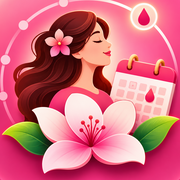
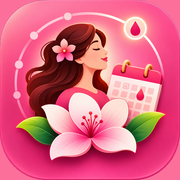
Add files via upload

diff --git a/index.html b/index.html
@@ -1,89 +1,91 @@
-<!doctype html><html lang="en"><head><meta charset="utf-8"><meta name="viewport" content="width=device-width,initial-scale=1,viewport-fit=cover"><meta name="theme-color" content="#FBF6F8"><meta name="color-scheme" content="light dark"><meta name="mobile-web-app-capable" content="yes"><meta name="apple-mobile-web-app-capable" content="yes"><meta name="apple-mobile-web-app-title" content="Cycle Bloom"><meta name="description" content="Cycle Bloom: a private period tracker. No account, no tracking."><link rel="manifest" href="manifest.webmanifest"><link rel="icon" href="favicon-48.png" type="image/png" sizes="48x48"><link rel="apple-touch-icon" href="apple-touch-icon.png"><title>Cycle Bloom</title>
-<link rel="preconnect" href="https://fonts.googleapis.com"><link rel="preconnect" href="https://fonts.gstatic.com" crossorigin><link href="https://fonts.googleapis.com/css2?family=Plus+Jakarta+Sans:wght@400;500;600;700;800&family=Noto+Nastaliq+Urdu:wght@400;500&display=swap" rel="stylesheet">
+<!doctype html><html lang="en"><head><meta charset="utf-8"><meta name="viewport" content="width=device-width,initial-scale=1,viewport-fit=cover"><meta name="theme-color" content="#fff9f7"><meta name="color-scheme" content="light dark"><meta name="mobile-web-app-capable" content="yes"><meta name="apple-mobile-web-app-capable" content="yes"><meta name="apple-mobile-web-app-title" content="Cycle Bloom"><meta name="description" content="Cycle Bloom: a private period tracker. No account, no tracking."><link rel="manifest" href="manifest.webmanifest"><link rel="icon" href="favicon-48.png" type="image/png" sizes="48x48"><link rel="apple-touch-icon" href="apple-touch-icon.png"><title>Cycle Bloom</title>
+<link rel="preconnect" href="https://fonts.googleapis.com"><link rel="preconnect" href="https://fonts.gstatic.com" crossorigin><link href="https://fonts.googleapis.com/css2?family=DM+Sans:wght@400;500;600;700&family=Fraunces:opsz,wght@9..144,500;9..144,600;9..144,700&family=Noto+Nastaliq+Urdu:wght@400;500&display=swap" rel="stylesheet">
 <style>
-:root{--bg:#FBF6F8;--card:#fff;--ink:#2A1621;--mut:#74606B;--line:#EEDFE6;--b:#C0287A;--b-d:#7E2350;--b-m:#D9608F;--b-t:#EDA9C4;--b-s:#FDEEF4;--on-b:#fff;--red:#DC2626;--ph1:var(--b);--ph2:var(--b-m);--ph3:var(--b-t);--ph4:var(--b-d);--sh:0 1px 2px rgba(80,25,55,.05),0 10px 24px -12px rgba(80,25,55,.16);--nav:rgba(255,255,255,.9)}
-body[data-t=dark]{color-scheme:dark;--bg:#160E13;--card:#221820;--ink:#F7EDF1;--mut:#B9A5AF;--line:#35252E;--b:#EE6AA7;--b-d:#C0508A;--b-m:#F28DB5;--b-t:#F8CFE0;--b-s:#3A2030;--on-b:#2A0A1A;--red:#FF5A52;--sh:0 1px 2px rgba(0,0,0,.3),0 12px 28px -14px rgba(0,0,0,.6);--nav:rgba(34,24,32,.9)}
+:root{--bg:#fff9f7;--card:#fff;--ink:#412a37;--mut:#8d7782;--line:#f0dfe3;--b:#e95f94;--b-d:#b93870;--b-m:#f6a2b6;--b-t:#e9b4c8;--b-s:#fff0f1;--peach:#ffe1d2;--on-b:#fff;--red:#dc2626;--ph1:#e95f94;--ph3:#f6a2b6;--ph2:#e9b4c8;--ph4:#c6a9cb;--sh:0 12px 35px rgba(117,55,76,.08);--nav:#fff}
+body[data-t=dark]{color-scheme:dark;--bg:#1d1720;--card:#2a202b;--ink:#fff2f5;--mut:#c3aeba;--line:#493644;--b:#f176a4;--b-d:#ffbad3;--b-m:#f6a2b6;--b-t:#e9b4c8;--b-s:#392735;--peach:#47313b;--on-b:#2a0a1a;--red:#ff5a52;--sh:0 12px 35px rgba(0,0,0,.16);--nav:#2a202b}
 *{box-sizing:border-box;-webkit-tap-highlight-color:transparent}
-html{-webkit-text-size-adjust:100%}
-body{margin:0;font:14px/1.45 "Plus Jakarta Sans",system-ui,-apple-system,"Segoe UI",sans-serif;color:var(--ink);background:var(--bg);min-height:100vh;min-height:100dvh;padding-bottom:calc(64px + env(safe-area-inset-bottom));font-variant-numeric:lining-nums}
-body.ur{direction:rtl;font-family:"Noto Nastaliq Urdu","Plus Jakarta Sans",system-ui,sans-serif;line-height:1.8}
-body.ur button,body.ur .chip,body.ur label,body.ur nav button{line-height:1.55}
-.hidden{display:none!important}.wrap{max-width:480px;margin:0 auto;padding:4px 16px}
-h1,h2{margin:0;line-height:1.2;letter-spacing:-.02em}h1{font-size:22px;font-weight:800}h2{font-size:16px;font-weight:700}
-body.ur h1,body.ur h2{line-height:1.7;letter-spacing:0}body.ur h1{font-size:20px}body.ur h2{font-size:15px}
-small,.eb{color:var(--b);font-size:12px;font-weight:600;display:block}
-.mut{color:var(--mut);font-size:12.5px;line-height:1.45;margin:0}
-.hd{padding:0 2px 6px}
-.card{background:var(--card);border:1px solid var(--line);border-radius:20px;padding:12px 14px;margin:8px 0;box-shadow:var(--sh)}
+html{-webkit-text-size-adjust:100%;scroll-behavior:smooth}
+body{margin:0;font:14px/1.5 "DM Sans",system-ui,-apple-system,"Segoe UI",sans-serif;color:var(--ink);background:var(--bg);min-height:100vh;min-height:100dvh;padding-bottom:calc(100px + env(safe-area-inset-bottom));font-variant-numeric:lining-nums}
+body.ur{direction:rtl;font-family:"Noto Nastaliq Urdu","DM Sans",system-ui,sans-serif;line-height:1.9}
+body.ur button,body.ur .chip,body.ur label,body.ur nav button{line-height:1.6}
+.hidden{display:none!important}.wrap{max-width:680px;margin:0 auto;padding:0 20px}
+h1,h2,h3{font-family:"Fraunces",Georgia,serif;margin:0;line-height:1.1}
+h1{font-size:clamp(31px,7vw,43px);letter-spacing:-1.5px;font-weight:600;margin:0 0 20px}
+h2{font-size:21px;letter-spacing:-.5px;font-weight:600}h3{font-size:17px;margin:0 0 7px;font-weight:600}
+body.ur h1,body.ur h2,body.ur h3{font-family:"Noto Nastaliq Urdu","Fraunces",serif;line-height:1.7;letter-spacing:0}body.ur h1{font-size:clamp(24px,6vw,34px)}body.ur h2{font-size:18px}
+small,.eb{display:block}
+.hd{padding:0}.hd small{font-size:11px;font-weight:700;letter-spacing:1.6px;text-transform:uppercase;color:var(--b-d);margin:0 0 7px}body.ur .hd small{letter-spacing:0;text-transform:none;font-size:12px}
+.mut{color:var(--mut);font-size:13px;line-height:1.5;margin:0}
+.card{background:var(--card);border:1px solid var(--line);border-radius:26px;padding:21px;margin:0 0 14px;box-shadow:var(--sh)}
 button,input,select,textarea{font:inherit;color:inherit}
-button{border:1px solid var(--line);border-radius:14px;padding:0 14px;min-height:44px;background:var(--card);cursor:pointer;width:100%;margin-top:8px;font-weight:600;font-size:13.5px;display:inline-flex;align-items:center;justify-content:center;gap:7px;transition:transform .15s,background .15s,box-shadow .2s}
-button:active{transform:scale(.97)}button:disabled{opacity:.45;cursor:not-allowed;transform:none}
-button.p,button.d{background:var(--b);color:var(--on-b);border-color:transparent;box-shadow:0 8px 16px -8px color-mix(in srgb,var(--b) 80%,transparent)}
+button{border:1px solid var(--line);border-radius:15px;padding:11px 16px;min-height:46px;background:var(--card);cursor:pointer;width:100%;margin-top:10px;font-weight:700;font-size:14px;display:inline-flex;align-items:center;justify-content:center;gap:8px;transition:transform .15s,background .15s}
+button:active{transform:scale(.97)}button:disabled{opacity:.5;cursor:not-allowed;transform:none}
+button.p,button.d{background:var(--b);color:var(--on-b);border-color:transparent;box-shadow:0 7px 16px rgba(233,95,148,.2)}
 button.q{background:transparent;color:var(--mut);border-color:transparent}
-button.dl{background:transparent;color:var(--b);border-color:transparent;min-height:34px;font-size:12.5px;margin-top:2px}
-:focus-visible{outline:2px solid var(--b);outline-offset:2px}
-.round{width:36px;height:36px;min-height:0;padding:0;margin:0;margin-inline-start:8px;flex:none;border-radius:12px}
-input,select,textarea{width:100%;padding:8px 10px;min-height:38px;border-radius:12px;border:1px solid var(--line);background:var(--card);margin:3px 0 8px;font-size:14px;transition:border-color .15s}
+button.dl{background:transparent;color:var(--b-d);border-color:transparent;min-height:36px;font-size:13px}
+:focus-visible{outline:3px solid var(--b);outline-offset:3px}
+.round{width:40px;height:40px;min-height:0;padding:0;margin:0;margin-inline-start:8px;flex:none;border-radius:14px}
+input,select,textarea{width:100%;padding:13px 14px;min-height:45px;border-radius:14px;border:1px solid var(--line);background:var(--card);margin:6px 0 14px;font-size:14px}
 input:focus,select:focus,textarea:focus{border-color:var(--b);outline:0}
-textarea{resize:none;min-height:0}
-label{font-size:12px;font-weight:600;color:var(--mut)}
-.row{display:flex;gap:8px}.row>*{flex:1;min-width:0}.row>button{margin-top:8px}
-.top{display:flex;justify-content:space-between;align-items:center;height:42px}.top>div:last-child{display:flex}
-.brand{font-size:16px;font-weight:800;letter-spacing:-.01em;display:flex;align-items:center}
-.bm{width:26px;height:26px;border-radius:9px;background:var(--b);color:var(--on-b);display:grid;place-items:center;margin-inline-end:8px;font-style:normal}.bm svg{width:15px;height:15px}
-svg.ic{width:20px;height:20px;fill:none;stroke:currentColor;stroke-width:1.75;stroke-linecap:round;stroke-linejoin:round;flex:none}
+textarea{resize:vertical;min-height:100px}
+label{font-size:12px;font-weight:700;color:var(--mut)}
+.row{display:flex;gap:10px}.row>*{flex:1;min-width:0}.row>button{margin-top:10px}
+.top{display:flex;justify-content:space-between;align-items:center;height:82px}.top>div:last-child{display:flex}
+.brand{font-size:19px;font-weight:700;letter-spacing:-.7px;display:flex;align-items:center;gap:10px}
+.bm{width:34px;height:34px;flex:none;display:block;font-style:normal;margin-inline-end:0}.bm img{width:100%;height:100%;display:block;border-radius:11px;box-shadow:0 5px 15px rgba(233,95,148,.31)}
+svg.ic{width:18px;height:18px;fill:none;stroke:currentColor;stroke-width:1.75;stroke-linecap:round;stroke-linejoin:round;flex:none}
 [dir=rtl] .flip svg{transform:scaleX(-1)}
-/* hero ring */
-.hero{display:flex;gap:16px;align-items:center;padding:14px 16px}
-.ring{position:relative;width:108px;height:108px;flex:none}.ring>svg{width:108px;height:108px;transform:rotate(-90deg);overflow:visible}
-.ring .tr{fill:none;stroke:var(--b-s);stroke-width:9}.ring .pg{fill:none;stroke:var(--b);stroke-width:9;stroke-linecap:round;transition:stroke-dashoffset 1.1s cubic-bezier(.2,.8,.2,1)}
+.hero{position:relative;overflow:hidden;display:flex;gap:20px;align-items:center;padding:26px;background:linear-gradient(135deg,var(--b-s),var(--card) 70%)}
+.hero:after{content:"✿";position:absolute;font-size:178px;line-height:1;right:-25px;top:-62px;color:var(--b);opacity:.08;pointer-events:none}
+.hero>*{position:relative;z-index:1}
+.ring{position:relative;width:112px;height:112px;flex:none}.ring>svg{width:112px;height:112px;transform:rotate(-90deg);overflow:visible}
+.ring .tr{fill:none;stroke:var(--b-s);stroke-width:9}body[data-t=dark] .ring .tr{stroke:var(--line)}.ring .pg{fill:none;stroke:var(--b);stroke-width:9;stroke-linecap:round;transition:stroke-dashoffset 1.1s cubic-bezier(.2,.8,.2,1)}
 .rc{position:absolute;inset:0;display:flex;flex-direction:column;align-items:center;justify-content:center;text-align:center;line-height:1}
-.rc strong{direction:ltr;unicode-bidi:isolate;font-size:40px;font-weight:800;letter-spacing:-.03em;font-variant-numeric:tabular-nums}.rc i{font-style:normal;font-size:10.5px;color:var(--mut);margin-top:4px;line-height:1.3}
+.rc strong{direction:ltr;unicode-bidi:isolate;font-family:"Fraunces",serif;font-size:42px;font-weight:600;font-variant-numeric:tabular-nums}.rc i{font-style:normal;font-size:10px;color:var(--mut);margin-top:4px;line-height:1.3;font-weight:700;text-transform:uppercase}
 .ring.red .tr,.ring.red .pg{stroke:var(--red)}.ring.red .rc strong{color:var(--red)}
 .ring.red{animation:glow 2.8s ease-in-out infinite}
 @keyframes glow{0%,100%{filter:drop-shadow(0 0 3px color-mix(in srgb,var(--red) 30%,transparent))}50%{filter:drop-shadow(0 0 10px color-mix(in srgb,var(--red) 55%,transparent))}}
-.hm{min-width:0}.hm h2{font-size:20px;font-weight:800;margin:0 0 2px}body.ur .hm h2{font-size:17px}.hm .mut{margin-bottom:8px}
-.pc{display:inline-flex;align-items:center;gap:6px;padding:3px 10px;border-radius:99px;background:var(--b-s);font-size:12px;font-weight:600}.pc i,.lgd i{width:8px;height:8px;border-radius:50%;background:var(--c);flex:none;box-shadow:inset 0 0 0 1px color-mix(in srgb,var(--ink) 14%,transparent)}
-.hero .cdl{display:block;font-size:11.5px;color:var(--mut);margin-top:6px}
+.hm{min-width:0}.hm h2{font-size:25px;margin:0 0 5px}body.ur .hm h2{font-size:19px}.hm .mut{margin-bottom:6px}
+.pc{display:inline-flex;align-items:center;gap:6px;padding:6px 10px;border-radius:99px;background:var(--b-s);color:var(--b-d);font-size:11px;font-weight:700;margin-top:6px}.pc i,.lgd i{width:8px;height:8px;border-radius:50%;background:var(--c);flex:none}
+.hero .cdl{display:block;font-size:11.5px;color:var(--mut);margin-top:8px}
 .ph1{--c:var(--ph1)}.ph2{--c:var(--ph2)}.ph3{--c:var(--ph3)}.ph4{--c:var(--ph4)}
-.nudge{display:flex;gap:8px;align-items:center;padding:8px 12px;border-radius:14px;margin:0 0 8px;font-size:12.5px;font-weight:600;line-height:1.4;background:color-mix(in srgb,var(--red) 9%,var(--card));border:1px solid color-mix(in srgb,var(--red) 35%,transparent)}.nudge svg{color:var(--red);width:18px;height:18px}
-.tl{padding:12px 14px}.bar{display:flex;gap:3px;height:8px;position:relative;margin:4px 0 12px}.bar span{background:var(--c);border-radius:6px;min-width:4px}
+.nudge{display:flex;gap:10px;align-items:center;padding:12px 16px;border-radius:18px;margin:0 0 14px;font-size:13px;font-weight:600;line-height:1.5;background:color-mix(in srgb,var(--red) 9%,var(--card));border:1px solid color-mix(in srgb,var(--red) 35%,transparent)}.nudge svg{color:var(--red);width:18px;height:18px}
+.tl h3{margin-bottom:14px}.bar{display:flex;gap:4px;height:7px;position:relative;margin:4px 0 16px}.bar span{background:var(--c);border-radius:8px;min-width:4px}
 .bar em{position:absolute;top:50%;width:14px;height:14px;margin-top:-7px;margin-inline-start:-7px;border-radius:50%;background:var(--card);border:3px solid var(--ink);box-shadow:0 2px 6px rgba(0,0,0,.2)}
-.lgd{display:flex;justify-content:space-between;gap:6px;font-size:11px;color:var(--mut)}.lgd span{display:inline-flex;align-items:center;gap:5px}
-.tip{margin:8px 0 0;font-size:12.5px;line-height:1.45}
-.sg{display:grid;grid-template-columns:repeat(3,1fr);text-align:center;padding:10px 6px}.sg>div+div{border-inline-start:1px solid var(--line)}.sg strong{display:block;font-size:20px;font-weight:800;line-height:1.2;letter-spacing:-.02em}.sg span{font-size:11px;color:var(--mut)}
-.fine{font-size:11px;color:var(--mut);line-height:1.4;margin:6px 2px 0}
-/* chips + switch */
-.chips{display:flex;flex-wrap:wrap;gap:6px;margin:4px 0 8px}
-.chip{display:inline-flex;align-items:center;gap:5px;padding:5px 11px;border-radius:999px;background:var(--card);border:1px solid var(--line);font-size:12.5px;cursor:pointer;font-weight:500;color:var(--ink);transition:background .15s,color .15s,border-color .15s}.chip svg{width:15px;height:15px}.chip input{display:none}
-.chip:has(input:checked){background:var(--b);color:var(--on-b);border-color:var(--b)}.chip.sm{padding:3px 10px;font-size:12px;cursor:default;background:var(--b-s);border-color:transparent}
-fieldset{border:0;padding:0;margin:0}legend{font-weight:600;font-size:12px;color:var(--mut);padding:0}
-.sw{display:flex;align-items:center;justify-content:space-between;gap:10px;font-weight:600;font-size:13.5px;color:var(--ink);margin:4px 0 8px}
-.sw.box{border:1px solid var(--line);border-radius:12px;padding:0 10px;min-height:38px;background:var(--card);font-size:11.5px;line-height:1.25;margin:0 0 8px}
-.sw input{appearance:none;-webkit-appearance:none;width:40px;height:24px;min-height:0;border-radius:99px;background:var(--line);position:relative;margin:0;padding:0;border:0;flex:none;transition:background .2s;cursor:pointer}
-.sw input::after{content:"";position:absolute;top:3px;inset-inline-start:3px;width:18px;height:18px;border-radius:50%;background:#fff;transition:inset-inline-start .2s;box-shadow:0 1px 3px rgba(0,0,0,.3)}.sw input:checked{background:var(--b)}.sw input:checked::after{inset-inline-start:19px}
-/* calendar */
-.cm{display:flex;align-items:center;justify-content:space-between;margin-bottom:4px}.cm h2{flex:1;text-align:center}.cm .round{margin:0}
-.g{display:grid;grid-template-columns:repeat(7,1fr);gap:2px;text-align:center}.g span{font-size:11px;color:var(--mut);padding:2px 0;font-weight:600}
-.g button{position:relative;padding:0;margin:0;height:34px;min-height:0;border:0;border-radius:10px;background:transparent;color:var(--ink);font-weight:500;font-size:13px;width:auto;gap:0}
-.g .o{opacity:.35}.g .ov{background:color-mix(in srgb,var(--b-m) 30%,transparent)}.g .pr{background:var(--b-s);box-shadow:inset 0 0 0 1.5px var(--b-m)}.g .l{background:var(--b);color:var(--on-b);font-weight:700;box-shadow:none}
-.g .t{box-shadow:inset 0 0 0 2px var(--ink)}.g .s{outline:2px solid var(--b-d);outline-offset:1px}
-.g u{position:absolute;bottom:3px;width:4px;height:4px;border-radius:50%;background:currentColor;opacity:.8}
-.lg{display:flex;flex-wrap:wrap;gap:4px 12px;font-size:11px;color:var(--mut);margin-top:8px}.lg span{display:inline-flex;align-items:center;gap:5px}.lg i{width:12px;height:12px;border-radius:4px;display:inline-block}
-.k-p{background:var(--b)}.k-r{background:var(--b-s);box-shadow:inset 0 0 0 1.5px var(--b-m)}.k-f{background:color-mix(in srgb,var(--b-m) 30%,transparent);box-shadow:inset 0 0 0 1px color-mix(in srgb,var(--b-m) 55%,transparent)}.k-t{box-shadow:inset 0 0 0 2px var(--ink)}
-.sel h2{font-size:16px}.sel .mut{margin:3px 0 4px}
-/* insights */
+.lgd{display:flex;flex-wrap:wrap;gap:10px;font-size:11px;color:var(--mut)}.lgd span{display:inline-flex;align-items:center;gap:4px}
+.tip{margin:14px 0 0;font-size:13px;line-height:1.5;color:var(--mut)}
+.tipc{display:flex;gap:13px;align-items:flex-start;background:var(--peach);box-shadow:none}.tipc .ti{font-size:21px;line-height:1.2}.tipc p{margin:0;color:var(--mut);line-height:1.5;font-size:13px}
+.sg{display:grid;grid-template-columns:repeat(3,1fr);text-align:center;padding:20px 8px}.sg>div+div{border-inline-start:1px solid var(--line)}.sg strong{display:block;font-family:"Fraunces",serif;font-size:24px;font-weight:600;line-height:1.3}.sg span{font-size:10.5px;color:var(--mut)}
+.row+.card,.row+.sg{margin-top:14px}.fine{font-size:11.5px;color:var(--mut);line-height:1.5;margin:12px 0}
+.chips{display:flex;flex-wrap:wrap;gap:8px;margin:6px 0 16px}
+.chip{display:inline-flex;align-items:center;gap:6px;padding:10px 13px;border-radius:12px;background:var(--card);border:1px solid var(--line);font-size:12px;cursor:pointer;font-weight:600;color:var(--ink)}.chip svg{width:15px;height:15px}.chip input{display:none}
+.chip:has(input:checked){background:var(--b-s);color:var(--b-d);border-color:var(--b)}.chip.sm{padding:5px 11px;font-size:12px;cursor:default;background:var(--b-s);border-color:transparent;color:var(--b-d)}
+fieldset{border:0;padding:0;margin:0}legend{font-weight:700;font-size:12px;color:var(--mut);padding:0;margin-bottom:6px}
+.sw{display:flex;align-items:center;justify-content:space-between;gap:12px;font-weight:600;font-size:14px;color:var(--ink);margin:6px 0 14px}
+.sw.box{border:1px solid var(--line);border-radius:14px;padding:0 12px;min-height:45px;background:var(--card);font-size:12px;line-height:1.3;margin:6px 0 14px}
+.sw input{appearance:none;-webkit-appearance:none;width:45px;height:26px;min-height:0;border-radius:30px;background:var(--line);position:relative;margin:0;padding:0;border:0;flex:none;transition:background .2s;cursor:pointer}
+.sw input::after{content:"";position:absolute;top:3px;inset-inline-start:3px;width:20px;height:20px;border-radius:50%;background:#fff;transition:inset-inline-start .2s;box-shadow:0 1px 4px rgba(0,0,0,.2)}.sw input:checked{background:var(--b)}.sw input:checked::after{inset-inline-start:22px}
+.cm{display:flex;align-items:center;justify-content:space-between;margin-bottom:20px}.cm h2{flex:1;text-align:center}.cm .round{margin:0}
+.g{display:grid;grid-template-columns:repeat(7,1fr);gap:5px;text-align:center}.g span{font-size:11px;color:var(--mut);padding:0 0 4px;font-weight:600}
+.g button{position:relative;padding:0;margin:0;aspect-ratio:1;height:auto;min-height:0;min-width:0;border:0;border-radius:13px;background:transparent;color:var(--ink);font-weight:600;font-size:14px;width:auto;gap:0}
+.g .o{opacity:.35}.g .ov{background:color-mix(in srgb,var(--b-m) 30%,transparent)}.g .pr{background:var(--b-s);color:var(--b-d);box-shadow:inset 0 0 0 1px var(--b-m)}.g .l{background:var(--b);color:var(--on-b);box-shadow:none}
+.g .t{box-shadow:inset 0 0 0 2px var(--b)}.g .l.t{box-shadow:inset 0 0 0 2px var(--card)}.g .s{outline:2px solid var(--ink);outline-offset:2px}
+.g u{position:absolute;bottom:4px;left:calc(50% - 2px);width:4px;height:4px;border-radius:50%;background:currentColor}
+.lg{display:flex;flex-wrap:wrap;gap:12px;font-size:11px;color:var(--mut);margin-top:19px}.lg span{display:inline-flex;align-items:center;gap:5px}.lg i{width:10px;height:10px;border-radius:4px;display:inline-block}
+.k-p{background:var(--b)}.k-r{background:var(--b-s);box-shadow:inset 0 0 0 1px var(--b)}.k-f{background:color-mix(in srgb,var(--b-m) 30%,transparent)}.k-t{box-shadow:inset 0 0 0 2px var(--b)}
+.sel h2{font-size:19px}.sel .mut{margin:6px 0 10px}
 .sb{height:8px;border-radius:6px;background:var(--b-s);overflow:hidden}.sb i{display:block;height:100%;background:var(--b);border-radius:6px}
-.sy{display:grid;grid-template-columns:96px 1fr 22px;gap:8px;align-items:center;font-size:13px;margin:7px 0}.sy b{font-weight:600;text-align:end;color:var(--mut);font-size:12px}
-nav{position:fixed;bottom:0;left:0;right:0;display:flex;gap:2px;background:var(--nav);-webkit-backdrop-filter:blur(14px);backdrop-filter:blur(14px);border-top:1px solid var(--line);padding:6px 8px calc(6px + env(safe-area-inset-bottom));z-index:20}
-nav button{border:0;background:transparent;width:auto;flex:1;margin:0;padding:6px 2px 5px;min-height:0;border-radius:14px;font-size:10.5px;font-weight:600;color:var(--mut);flex-direction:column;gap:3px}nav button.a{color:var(--b);background:var(--b-s)}
-.pan{position:fixed;inset:0;z-index:50;display:flex;align-items:center;justify-content:center;padding:20px;background:var(--bg);overflow:auto}.pan .card{width:100%;max-width:380px}
-.mod{background:rgba(22,14,19,.5);backdrop-filter:blur(4px);z-index:60}
-#toast{position:fixed;bottom:calc(78px + env(safe-area-inset-bottom));left:50%;transform:translateX(-50%) translateY(8px);background:var(--ink);color:var(--bg);padding:10px 16px;border-radius:14px;opacity:0;transition:.3s;pointer-events:none;z-index:99;max-width:90%;font-size:13px;text-align:center}#toast.on{opacity:1;transform:translateX(-50%)}
-.err{color:var(--b);min-height:1.3em;font-size:13px;margin:0}.dots{display:flex;gap:6px;margin:4px 0 12px}.dots i{height:4px;flex:1;border-radius:9px;background:var(--line)}.dots i.on{background:var(--b)}
-#v.in{animation:in .28s cubic-bezier(.2,.7,.2,1)}@keyframes in{from{opacity:0;transform:translateY(6px)}to{opacity:1;transform:none}}
-.st input,.st select{min-height:34px;padding:6px 10px;margin:2px 0 6px}.st label{font-size:11.5px}.st button{min-height:40px;font-size:12.5px;padding:0 8px;gap:5px;white-space:nowrap;margin-top:6px}.st .card{padding:10px 12px;margin:6px 0}.st .hd{padding-bottom:2px;display:flex;align-items:baseline;gap:8px}.st .hd small{order:2;color:var(--mut);font-weight:500}.st .hd h1{order:1}.st label{margin:0}.st .sw.box{min-height:34px;margin-bottom:6px}.st .fine{font-size:10.5px}.st .sw input{min-height:0;margin:0}.st .row>button{margin-top:6px}
-@media (max-height:700px){.ring,.ring>svg{width:94px;height:94px}.rc strong{font-size:34px}.card{margin:6px 0;padding:10px 12px}.g button{height:30px}.hero{padding:10px 14px}}
+.sy{display:grid;grid-template-columns:96px 1fr 22px;gap:8px;align-items:center;font-size:13px;margin:10px 0}.sy b{font-weight:700;text-align:end;color:var(--mut);font-size:12px}
+nav{position:fixed;bottom:0;left:0;right:0;display:flex;gap:3px;background:var(--nav);border-top:1px solid var(--line);padding:9px 12px calc(10px + env(safe-area-inset-bottom));z-index:20;box-shadow:0 -8px 30px rgba(77,36,64,.05)}
+nav button{border:0;background:transparent;width:auto;flex:1;margin:0;padding:6px 2px;min-height:52px;border-radius:14px;font-size:10px;font-weight:700;color:var(--mut);flex-direction:column;gap:4px}nav button.a{color:var(--b-d);background:var(--b-s)}
+.pan{position:fixed;inset:0;z-index:50;display:flex;align-items:center;justify-content:center;padding:24px;background:var(--bg);overflow:auto}.pan .card{width:100%;max-width:380px}
+.mod{background:rgba(29,23,32,.5);backdrop-filter:blur(4px);z-index:60}
+#toast{position:fixed;bottom:calc(92px + env(safe-area-inset-bottom));left:50%;transform:translateX(-50%) translateY(8px);background:var(--ink);color:var(--bg);padding:11px 18px;border-radius:15px;opacity:0;transition:.3s;pointer-events:none;z-index:99;max-width:90%;font-size:13px;text-align:center}#toast.on{opacity:1;transform:translateX(-50%)}
+.err{color:var(--b-d);min-height:1.3em;font-size:12px;font-weight:700;margin:0}.dots{display:flex;gap:6px;margin:4px 0 14px}.dots i{height:5px;flex:1;border-radius:9px;background:var(--line)}.dots i.on{background:var(--b)}
+#v.in{animation:in .25s ease}@keyframes in{from{opacity:.5;transform:translateY(5px)}to{opacity:1;transform:none}}
+@media(min-width:600px){.wrap{padding:0 28px}.card{padding:25px}.hero{gap:32px}.ring,.ring>svg{width:135px;height:135px}.rc strong{font-size:48px}
+nav{bottom:18px;left:50%;right:auto;transform:translateX(-50%);width:min(580px,calc(100% - 30px));border:1px solid var(--line);border-radius:22px;padding:7px}}
+@media(max-width:380px){.hero{padding:20px;gap:14px}.ring,.ring>svg{width:96px;height:96px}.rc strong{font-size:36px}}
 @media (prefers-reduced-motion:reduce){*{transition:none!important;animation:none!important}}
 </style></head><body>
 <div id="lock" class="pan hidden"><div class="card"><div class="brand"><i class="bm"></i>Cycle Bloom</div><h2 id="lh" style="margin-top:12px"></h2><label id="lt" for="upin"></label><input id="upin" type="password" inputmode="numeric" autocomplete="off" maxlength="4" onkeydown="if(event.key==='Enter')unlock()"><p class="err" id="uerr"></p><button class="p" id="ub" onclick="unlock()"></button><button class="q" id="fb" onclick="forgot()"></button></div></div>
@@ -94,7 +96,7 @@ nav button{border:0;background:transparent;width:auto;flex:1;margin:0;padding:6p
 <script>
 const $=s=>document.querySelector(s);
 const esc=s=>String(s).replace(/[&<>"']/g,c=>({"&":"&amp;","<":"&lt;",">":"&gt;",'"':"&quot;","'":"&#39;"}[c]));
-const EN={home:"Home",cal:"Calendar",log:"Log",ins:"Insights",set:"Settings",hello:"Hello",today:"Your cycle today",
+const EN={gr:"A gentle reminder",jt:"Your cycle journey",home:"Home",cal:"Calendar",log:"Log",ins:"Insights",set:"Settings",hello:"Your space to bloom",today:"Your cycle, at a glance.",
 dleft:"DAYS LEFT",dleft1:"DAY LEFT",due:"DUE TODAY",pday:"PERIOD DAY",dlate:"DAYS LATE",dlate1:"DAY LATE",of:"of {n} days",
 tom:"Tomorrow",td:"Today",in:"In {n} days",late1:"Late by 1 day",late:"Late by {n} days",pred:"Expected {d}",wasexp:"Was expected {d}",cd:"Cycle day {d} of {n}",cd2:"Cycle day {d}",pdayh:"Period day {d}",endexp:"Ends around {d}",
 nudge:"Keep pads and essentials handy.",nl:"Cycles vary, so it may start any day now.",nl7:"More than a week late? A check-up can help.",
@@ -117,7 +119,7 @@ saved:"Saved",wrong:"Wrong PIN",unl:"Unlock",wb:"Welcome back",ent4:"Enter your 
 o1t:"Your cycle, understood gently.",o1p:"A private journal to notice patterns and prepare with confidence.",o2t:"Let's begin with the basics.",o2d:"First day of your last period",o3t:"A little notice, when you need it.",onf:"No account. No tracking. Your story stays yours.",back:"Back",cont:"Continue",begin:"Begin",
 cal2:"Calendar file ready. Open it to add reminders.",ps:"Mark period start today?",pe:"Mark period as ended today?",ps2:"Period start saved.",pe2:"Period end saved.",nops:"No current period start found.",already:"You're already on day {d} of your period.",endbad:"Your last period started {d} days ago. Fix its date in Log.",
 imp2:"Import will replace current data. Continue?",bad:"Not a valid backup file.",pin2:"PIN must be 4 digits.",nres:"Notifications are blocked in browser settings.",nsup:"Notifications aren't supported on this browser.",cant:"Could not save"},
-UR={home:"ہوم",cal:"کیلنڈر",log:"اندراج",ins:"اعداد",set:"سیٹنگز",hello:"السلام علیکم",today:"آج آپ کا سائیکل",
+UR={gr:"ایک نرم یاد دہانی",jt:"آپ کے سائیکل کا سفر",home:"ہوم",cal:"کیلنڈر",log:"اندراج",ins:"اعداد",set:"سیٹنگز",hello:"السلام علیکم",today:"آج آپ کا سائیکل",
 dleft:"دن باقی",dleft1:"دن باقی",due:"آج متوقع",pday:"ماہواری کا دن",dlate:"دن دیر",dlate1:"دن دیر",of:"{n} دن میں سے",
 tom:"کل",td:"آج",in:"{n} دن میں",late1:"1 دن دیر سے",late:"{n} دن دیر سے",pred:"متوقع: {d}",wasexp:"متوقع تاریخ: {d}",cd:"سائیکل کا دن {d} / {n}",cd2:"سائیکل کا دن {d}",pdayh:"ماہواری کا دن {d}",endexp:"تقریباً {d} تک",
 nudge:"ضروری چیزیں تیار رکھیں۔",nl:"سائیکل بدلتا رہتا ہے، کسی بھی دن شروع ہو سکتی ہے۔",nl7:"ایک ہفتے سے زیادہ دیر ہو تو ڈاکٹر سے چیک اپ کروائیں۔",
@@ -178,13 +180,13 @@ moon:'<path d="M20 14.5A8 8 0 1 1 9.5 4a6.5 6.5 0 0 0 10.5 10.5z"/>',sun:'<circl
 plus:'<path d="M12 5v14M5 12h14"/>',check:'<path d="M5 12.5l4.5 4.5L19 7.5"/>',bell:'<path d="M6 16v-5a6 6 0 0 1 12 0v5l1.5 2h-15zM10 20a2 2 0 0 0 4 0"/>',chL:'<path d="M15 5l-7 7 7 7"/>',chR:'<path d="M9 5l7 7-7 7"/>',send:'<path d="M4 12l16-8-6 16-3-7z"/>',down:'<path d="M12 4v11M7 11l5 5 5-5M5 20h14"/>',up:'<path d="M12 16V5M7 9l5-5 5 5M5 20h14"/>',drop:'<path d="M12 3c3.6 4.3 6 7.3 6 10.5a6 6 0 0 1-12 0C6 10.3 8.4 7.3 12 3z"/>',
 calm:'<circle cx="12" cy="12" r="9"/><path d="M9 10h.01M15 10h.01M9.5 14.5c1.4 1 3.6 1 5 0"/>',good:'<circle cx="12" cy="12" r="9"/><path d="M9 10h.01M15 10h.01M8.5 14c1.9 2.6 5.1 2.6 7 0"/>',low:'<circle cx="12" cy="12" r="9"/><path d="M9 10h.01M15 10h.01M9 16c1.7-1.4 4.3-1.4 6 0"/>',anxious:'<circle cx="12" cy="12" r="9"/><path d="M9 10h.01M15 10h.01M8.5 15.5c1-1 2.2-1 3.5 0s2.5 1 3.5 0"/>'};
 const ico=k=>`<svg class="ic" viewBox="0 0 24 24" aria-hidden="true">${IC[k]}</svg>`;
-function theme(){const x=S.theme==="auto"?(matchMedia("(prefers-color-scheme: dark)").matches?"dark":"light"):S.theme;document.body.dataset.t=x;const m=document.querySelector('meta[name=theme-color]');if(m)m.content=x==="dark"?"#160E13":"#FBF6F8"}
+function theme(){const x=S.theme==="auto"?(matchMedia("(prefers-color-scheme: dark)").matches?"dark":"light"):S.theme;document.body.dataset.t=x;const m=document.querySelector('meta[name=theme-color]');if(m)m.content=x==="dark"?"#1d1720":"#fff9f7"}
 try{matchMedia("(prefers-color-scheme: dark)").addEventListener("change",()=>{if(S.theme==="auto"){theme();ui()}})}catch(e){}
 function toggleTheme(){S.theme=document.body.dataset.t==="dark"?"light":"dark";save();theme();ui()}
 function ui(){document.body.classList.toggle("ur",S.lang==="ur");document.documentElement.dir=S.lang==="ur"?"rtl":"ltr";document.documentElement.lang=S.lang;theme();
 $("#lh").textContent=t("wb");$("#lt").textContent=t("ent4");$("#ub").textContent=t("unl");$("#fb").textContent=t("fg");$("#onf").textContent=t("onf");
 $("#tb").innerHTML=`<div class="brand"><i class="bm"></i>Cycle Bloom</div><div><button class="round" onclick="toggleTheme()" aria-label="${t("app")}">${ico(document.body.dataset.t==="dark"?"sun":"moon")}</button><button class="round" onclick="lockNow()" aria-label="${t("lock")}">${ico("lock")}</button></div>`;
-$("#nav").innerHTML=["home","cal","log","ins","set"].map(k=>`<button class="${tab===k?"a":""}" onclick="go('${k}')" aria-label="${t(k)}"${tab===k?' aria-current="page"':""}>${ico(k)}${t(k)}</button>`).join("");document.querySelectorAll(".bm").forEach(e=>e.innerHTML=ico("drop"))}
+$("#nav").innerHTML=["home","cal","log","ins","set"].map(k=>`<button class="${tab===k?"a":""}" onclick="go('${k}')" aria-label="${t(k)}"${tab===k?' aria-current="page"':""}>${ico(k)}${t(k)}</button>`).join("");document.querySelectorAll(".bm").forEach(e=>e.innerHTML='<img src="icon-192.png" alt="" width="34" height="34">')}
 function go(k){tab=k;if(k==="log")ld=sel>today()?today():sel;draw();scrollTo(0,0)}
 function draw(){ui();const vv=$("#v");vv.classList.remove("in");void vv.offsetWidth;vv.classList.add("in");({home,cal,log,ins,set})[tab]($("#v"))}
 const dn=n=>n===1?t("dleft1"):t("dleft");
@@ -196,10 +198,10 @@ else if(c.mode==="l"){f=1;num="+"+(-c.k);lab=c.k===-1?t("dlate1"):t("dlate");h2=
 else{f=cl(c.k/c.len,0,1);num=c.k;lab=c.k===0?t("due"):dn(c.k);h2=c.k===0?t("td"):c.k===1?t("tom"):t("in",{n:c.k});m1=t("pred",{d:fmt(c.e)})}}
 const red=c&&c.red;if(red)f=1;const ring=`<div class="ring${red?" red":""}" role="img" aria-label="${esc(h2)}"><svg viewBox="0 0 120 120" aria-hidden="true"><circle class="tr" cx="60" cy="60" r="50"/><circle class="pg" id="pg" cx="60" cy="60" r="50" stroke-dasharray="${CIR}" stroke-dashoffset="${CIR}" data-to="${CIR*(1-f)}"/></svg><div class="rc"><strong>${num}</strong>${sub?`<i>${sub}</i>`:""}</div></div>`;
 let tl="";if(c){const sg=segs(c.len,c.pl).filter(x=>x[1]>0),pos=cl((Math.min(c.d,c.len)-.5)/c.len*100,2,98);
-tl=`<div class="card tl"><div class="bar" role="img" aria-label="${t(phk())}">${sg.map(([k,n])=>`<span class="${k}" style="flex:${n}"></span>`).join("")}<em style="inset-inline-start:${pos}%"></em></div><div class="lgd">${["ph1","ph3","ph2","ph4"].map(k=>`<span class="${k}"><i></i>${t("l"+k)}</span>`).join("")}</div><p class="tip">${t("tip"+phk().slice(2))}</p></div>`}
+tl=`<div class="card tl"><h3>${t("jt")}</h3><div class="bar" role="img" aria-label="${t(phk())}">${sg.map(([k,n])=>`<span class="${k}" style="flex:${n}"></span>`).join("")}<em style="inset-inline-start:${pos}%"></em></div><div class="lgd">${["ph1","ph3","ph2","ph4"].map(k=>`<span class="${k}"><i></i>${t("l"+k)}</span>`).join("")}</div><p class="tip">${t("tip"+phk().slice(2))}</p></div>`}
 v.innerHTML=`<div class="hd"><small>${t("hello")}</small><h1>${t("today")}</h1></div><div class="card hero">${ring}<div class="hm"><h2>${h2}</h2><p class="mut">${m1}</p>${chip}${cdl}</div></div>${nudge?`<div class="nudge" role="status">${ico("bell")}<span>${nudge}</span></div>`:""}${tl}
 <button class="p" onclick="startP()">${ico("drop")}${t("st")}</button><div class="row"><button onclick="endP()">${ico("check")}${t("en")}</button><button onclick="icsOut()">${ico("bell")}${t("rem")}</button></div>
-<div class="card sg"><div><strong>${avg()}</strong><span>${t("avg")}</span></div><div><strong>${avgPer()}</strong><span>${t("pl")}</span></div><div><strong>${c?fmt(c.s,{month:"short",day:"numeric"}):"—"}</strong><span>${t("lastp")}</span></div></div><p class="fine">${t("est")}</p>`;
+<div class="card sg"><div><strong>${avg()}</strong><span>${t("avg")}</span></div><div><strong>${avgPer()}</strong><span>${t("pl")}</span></div><div><strong>${c?fmt(c.s,{month:"short",day:"numeric"}):"—"}</strong><span>${t("lastp")}</span></div></div><div class="card tipc"><span class="ti" aria-hidden="true">✿</span><div><h3>${t("gr")}</h3><p>${t("est")}</p></div></div>`;
 const p=$("#pg");if(p)requestAnimationFrame(()=>requestAnimationFrame(()=>{p.style.strokeDashoffset=p.dataset.to}))}
 /* ---- calendar ---- */
 function mv(n){cur=new Date(cur.getFullYear(),cur.getMonth()+n,1,12);draw()}

diff --git a/sw.js b/sw.js
@@ -1,4 +1,4 @@
-const C="cycle-bloom-v6",F=["./","./index.html","./manifest.webmanifest","./favicon-48.png","./icon-192.png","./icon-512.png","./apple-touch-icon.png"];
+const C="cycle-bloom-v7",F=["./","./index.html","./manifest.webmanifest","./favicon-48.png","./icon-192.png","./icon-512.png","./apple-touch-icon.png"];
 self.addEventListener("install",e=>{e.waitUntil(caches.open(C).then(c=>Promise.allSettled(F.map(f=>c.add(f)))).then(()=>self.skipWaiting()))});
 self.addEventListener("activate",e=>{e.waitUntil(caches.keys().then(k=>Promise.all(k.filter(x=>x!==C).map(x=>caches.delete(x)))).then(()=>self.clients.claim()))});
 self.addEventListener("fetch",e=>{const r=e.request;const u=new URL(r.url),fo=/(^|\.)(fonts\.googleapis|fonts\.gstatic)\.com$/.test(u.hostname);if(r.method!=="GET"||(u.origin!==location.origin&&!fo))return;

diff --git a/README.md b/README.md
@@ -130,3 +130,9 @@ Background Web Push requires a provider account and a server-side function. A pu
 - PNG icons (192, 512, maskable, apple-touch) aur aap ka naya logo (GPT wala) sab sizes mein.
 
 Deploy: purani files ki jagah in sab files ko GitHub repo mein upload karein (index.html root par). Browser mein ek baar refresh karein; service worker v5 purana cache khud hata deta hai.
+
+## Update (v4) - Canva design + naya logo
+- Poora look Canva wale design jaisa: DM Sans + Fraunces fonts, naram pink rang, bare round cards, Home par ring + journey card + gentle reminder card, Calendar mein bare rounded din, neeche navigation bar.
+- Aap ka logo (Bloom Cycle Tracker) header, lock screen aur sab icons (192, 512, maskable, apple-touch, favicon) mein lag gaya.
+- Andar ka sara kaam pehle jaisa hai: IndexedDB/local data, PIN lock, notifications, .ics reminders, Urdu, export/import.
+- Deploy: zip kholein, sari files GitHub repo mein upload karein (index.html root par). Phir browser mein ek baar refresh karein; service worker v7 purana cache khud hata deta hai.
